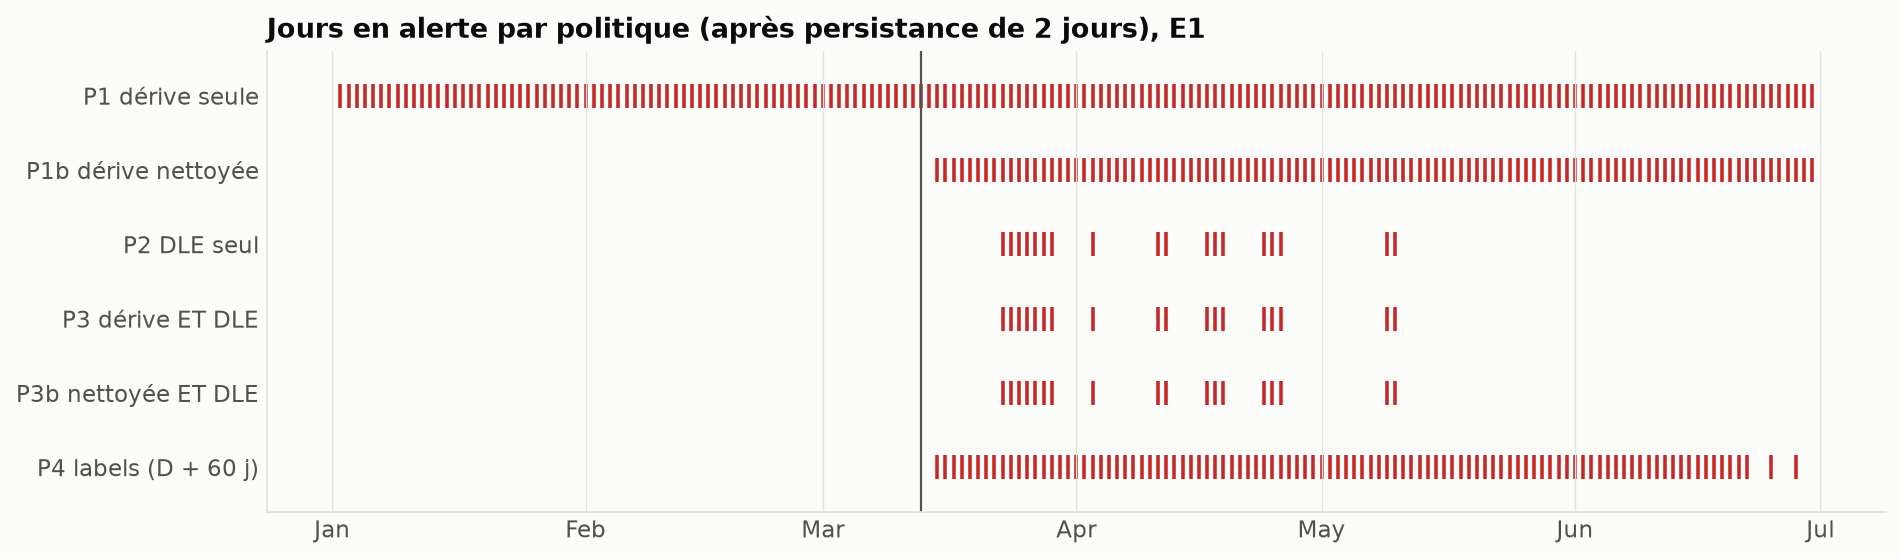
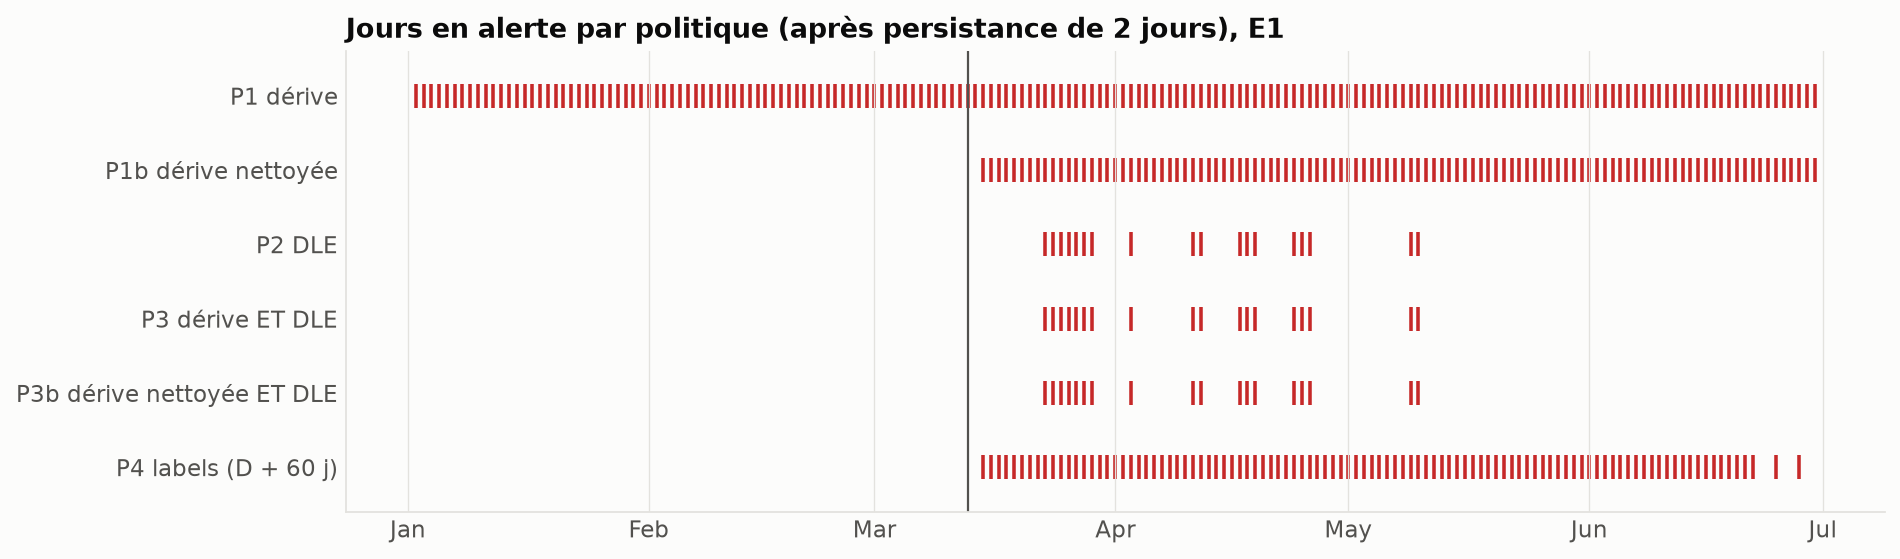
refactor(figures): libellés importés, chronologies avec les noms courts communs

diff --git a/scripts/make_result_figures.py b/scripts/make_result_figures.py
@@ -16,6 +16,9 @@ import pandas as pd
 
 from zonefleet import viz
 from zonefleet.config import RESULTS
+from zonefleet.labels import FAMILY_COLOR, POLICY_COLOR, POLICY_SHORT
+from zonefleet.labels import POLICY_SHORT as POLICY_FR
+from zonefleet.labels import RETRAIN_COLOR as POLICY_E5
 
 T = RESULTS / "tables"
 GROUPS: dict[str, list] = {}
@@ -142,14 +145,6 @@ def e0_traces() -> None:
 
 
 # --------------------------------------------------------------------------- E1/E2
-POLICY_FR = {
-    "P1_drift": "P1 dérive seule",
-    "P1b_drift_clean": "P1b dérive nettoyée",
-    "P2_dle": "P2 DLE seul",
-    "P3_drift_and_dle": "P3 dérive ET DLE",
-    "P3b_clean_and_dle": "P3b nettoyée ET DLE",
-    "P4_realized": "P4 labels (D + 60 j)",
-}
 
 
 def perf_panel(ax, perf: pd.DataFrame, metric: str, title: str, shock=None, phases=None) -> None:
@@ -401,12 +396,6 @@ def e2_timeline() -> None:
 
 
 # --------------------------------------------------------------------------- E3
-FAMILY_COLOR = {
-    "covariate nuisible": viz.BLUE,
-    "covariate bénin": viz.AQUA,
-    "concept pur": viz.MAGENTA,
-    "choc propagé": viz.YELLOW,
-}
 
 
 @group("e3")
@@ -509,20 +498,6 @@ def e3_transition() -> None:
 
 
 # --------------------------------------------------------------------------- E4
-POLICY_SHORT = {
-    "P1_drift": "P1 dérive",
-    "P1b_drift_clean": "P1b dérive nettoyée",
-    "P2_dle": "P2 DLE",
-    "P3_drift_and_dle": "P3 dérive ET DLE",
-    "P3b_clean_and_dle": "P3b dérive nettoyée ET DLE",
-    "P4_realized": "P4 labels (D + 60 j)",
-}
-POLICY_COLOR = {
-    "P1b_drift_clean": viz.AQUA,
-    "P2_dle": viz.BLUE,
-    "P3b_clean_and_dle": viz.VIOLET,
-    "P4_realized": viz.ORANGE,
-}
 
 
 @group("e4")
@@ -671,13 +646,6 @@ def e4_delays() -> None:
 
 
 # --------------------------------------------------------------------------- E5
-POLICY_E5 = {
-    "jamais": viz.NEUTRAL,
-    "calendrier": viz.BLUE,
-    "réflexe": viz.YELLOW,
-    "réflexe court": viz.MAGENTA,
-    "gardé": viz.VIOLET,
-}
 
 
 @group("e5")
